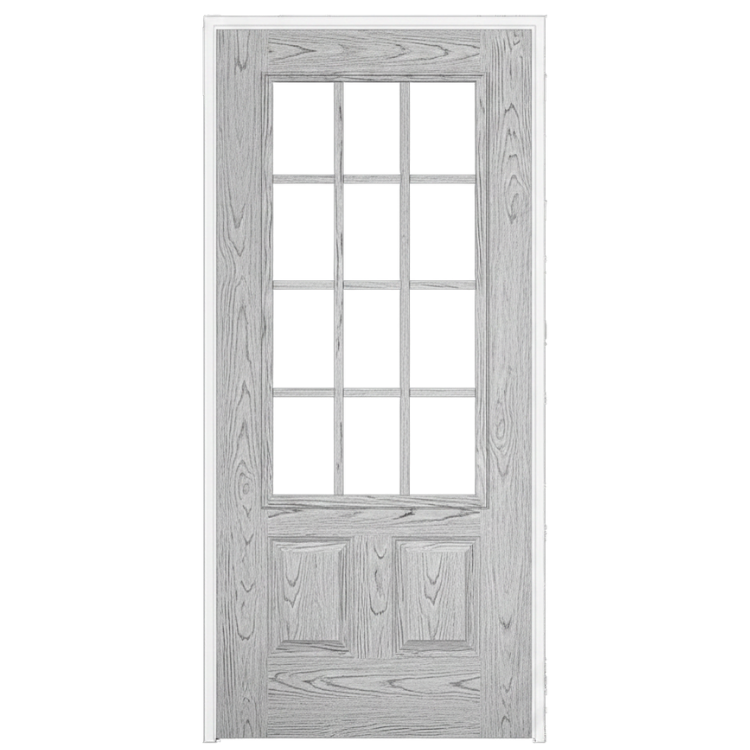
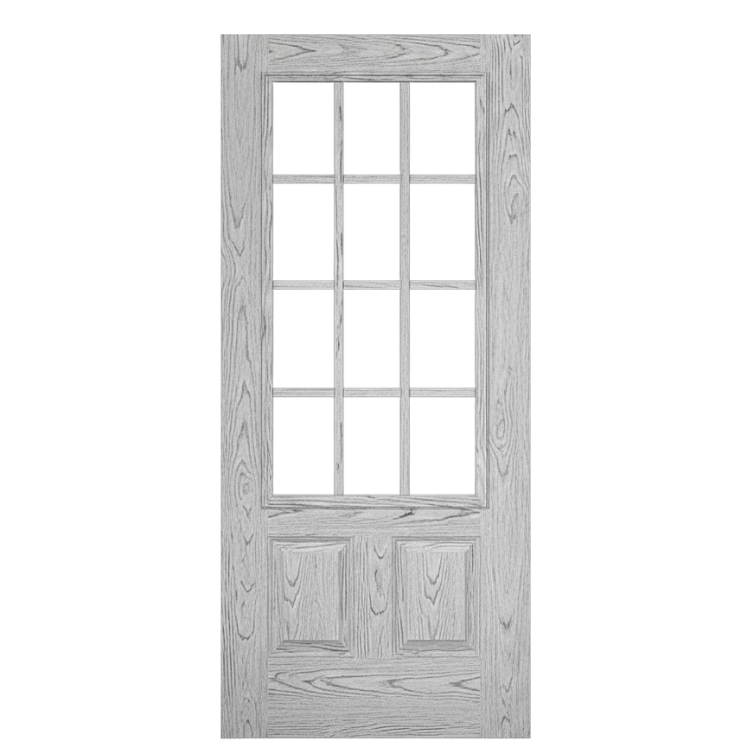
Fixed F48 Glass Options

Changed region(s): [[0.276, 0.0307, 0.736, 1.0]]

diff --git a/src/data/glassOptions.ts b/src/data/glassOptions.ts
@@ -459,6 +459,54 @@ const f482Overlays: Record<string, string> = {
   waterside: 'F482Waterside.png',
 }
 
+const f48Overlays: Record<string, string> = {
+  ashbury: 'F48Ashbury.png',
+  berkley: 'F48Berkley.png',
+  briselle: 'F48Briselle.png',
+  cadence: 'F48Cadence.png',
+  calandra: 'F48Calandra.png',
+  courtyard: 'F48Courtyard.png',
+  crosswalk: 'F48Crosswalk.png',
+  cyndi: 'F48Cyndi.png',
+  'dorian-nickel': 'F48Dorian.png',
+  'dorian-patina': 'F48Dorian.png',
+  edgewood: 'F48Edgewood.png',
+  'elegant-black-white': 'F48Elegant.png',
+  'elegant-nickel': 'F48Elegant.png',
+  'elegant-patina': 'F48Elegant.png',
+  empire: 'F48Empire.png',
+  fragrance: 'F48Fragrance.png',
+  garrison: 'F48Garrison.png',
+  'grace-nickel': 'F48Grace.png',
+  'grace-patina': 'F48Grace.png',
+  'heirlooms-brass': 'F48Heirlooms.png',
+  'heirlooms-nickel': 'F48Heirlooms.png',
+  'high-point': 'F48Highpoint.png',
+  jameston: 'F48Jameston.png',
+  'majestic-nickel': 'F48Majestic.png',
+  'majestic-patina': 'F48Majestic.png',
+  margate: 'F48Margate.png',
+  metro: 'F48Metro.png',
+  mistify: 'F48Mistify.png',
+  mohave: 'F48Mohave.png',
+  'monterey-nickel': 'F48Monterey.png',
+  'monterey-patina': 'F48Monterey.png',
+  neo: 'F48Neo.png',
+  'nouveau-nickel': 'F48Nouvea.png',
+  'nouveau-patina': 'F48Nouvea.png',
+  'oak-park': 'F48Oakpark.png',
+  paris: 'F48Paris.png',
+  pembrook: 'F48Pembrook.png',
+  prestige: 'F48Prestige.png',
+  rill: 'F48Rill.png',
+  riverwood: 'F48Riverwood.png',
+  sterling: 'F48Sterling.png',
+  topaz: 'F48Topaz.png',
+  vilano: 'F48Vilano.png',
+  vincraft: 'F48Vincraft.png',
+  waterside: 'F48Waterside.png',
+}
+
 const s836Overlays: Record<string, string> = {
   berkley: 'S836BER.png',
   blanca: 'S836BLA.png',
@@ -573,6 +621,7 @@ export const glassOptions: GlassOption[] = [
   const soOverlay = soOverlays[option.id]
   const sOverlay = sOverlays[option.id]
   const fOverlay = fOverlays[option.id]
+  const f48Overlay = f48Overlays[option.id]
   const f482Overlay = f482Overlays[option.id]
   const s836Overlay = s836Overlays[option.id]
   const swOverlay = swOverlays[option.id]
@@ -651,8 +700,11 @@ export const glassOptions: GlassOption[] = [
     overlaysByDoorStyle.F = `/assets/glass/overlays/F/${fOverlay}?v=1`
   }
 
+  if (f48Overlay) {
+    overlaysByDoorStyle.F48 = `/assets/glass/overlays/F48/${f48Overlay}?v=1`
+  }
+
   if (f482Overlay) {
-    overlaysByDoorStyle.F48 = `/assets/glass/overlays/F482/${f482Overlay}?v=1`
     overlaysByDoorStyle.F482 = `/assets/glass/overlays/F482/${f482Overlay}?v=1`
   }
 